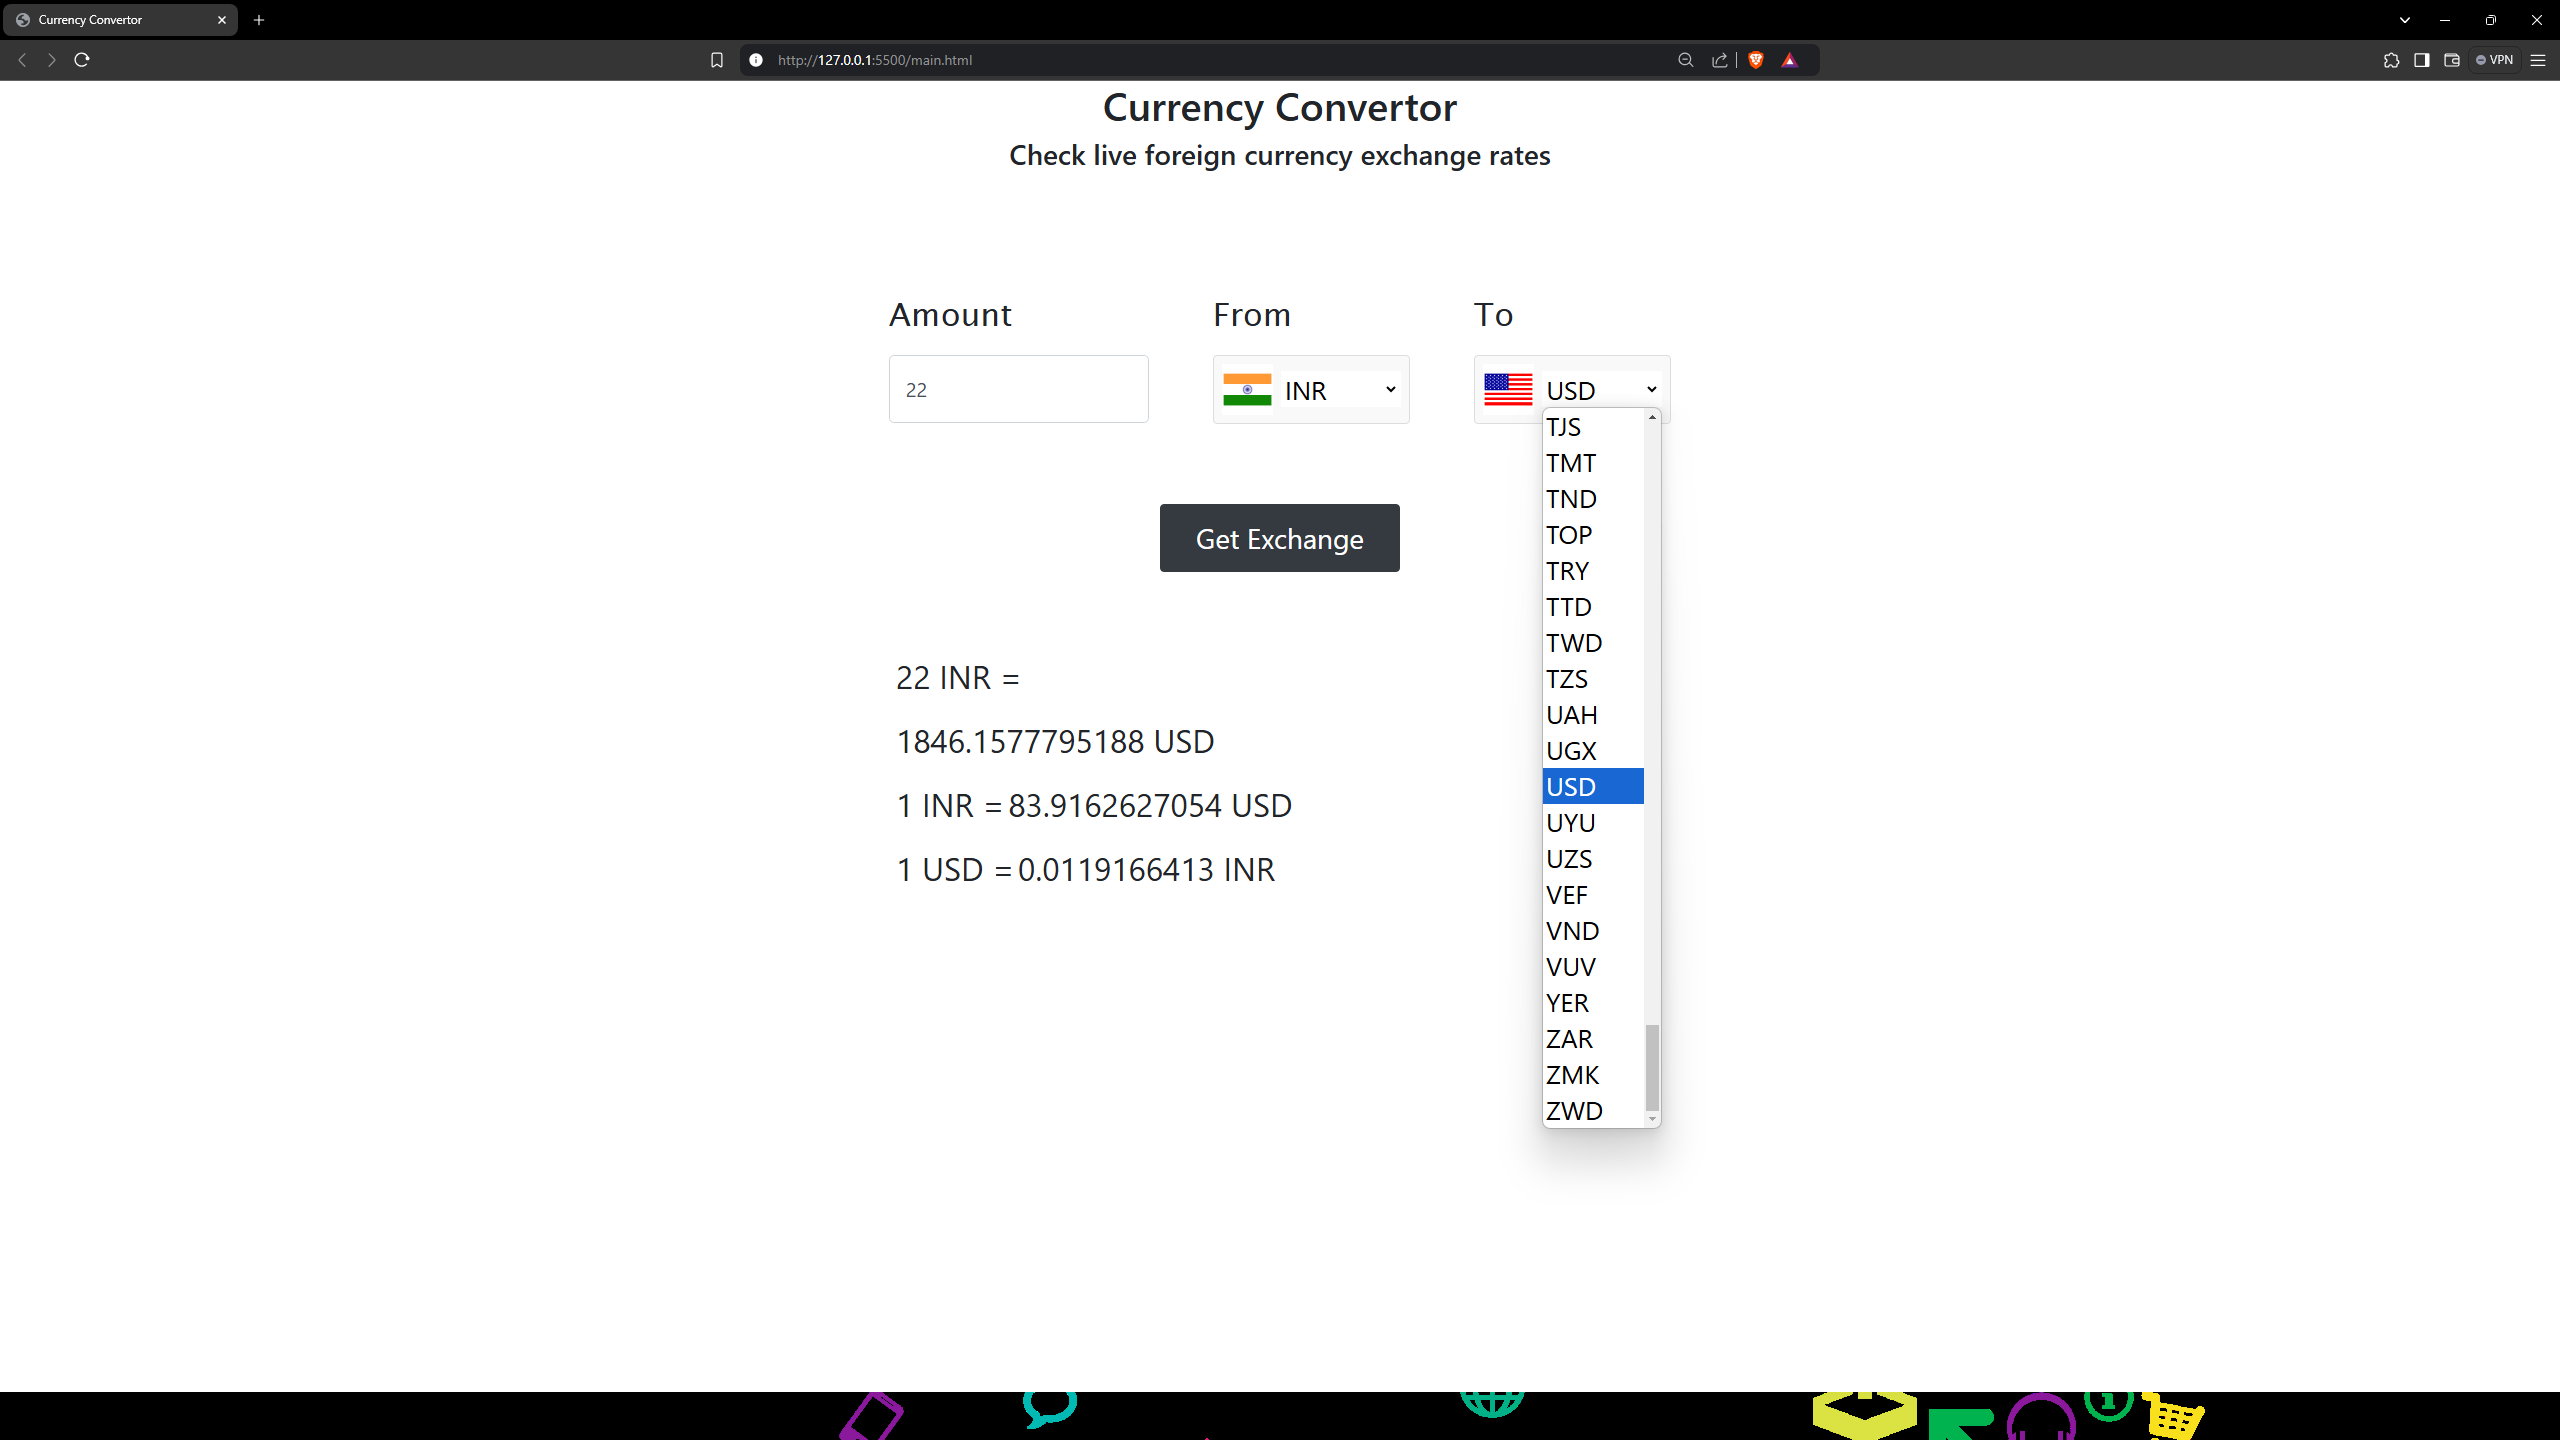
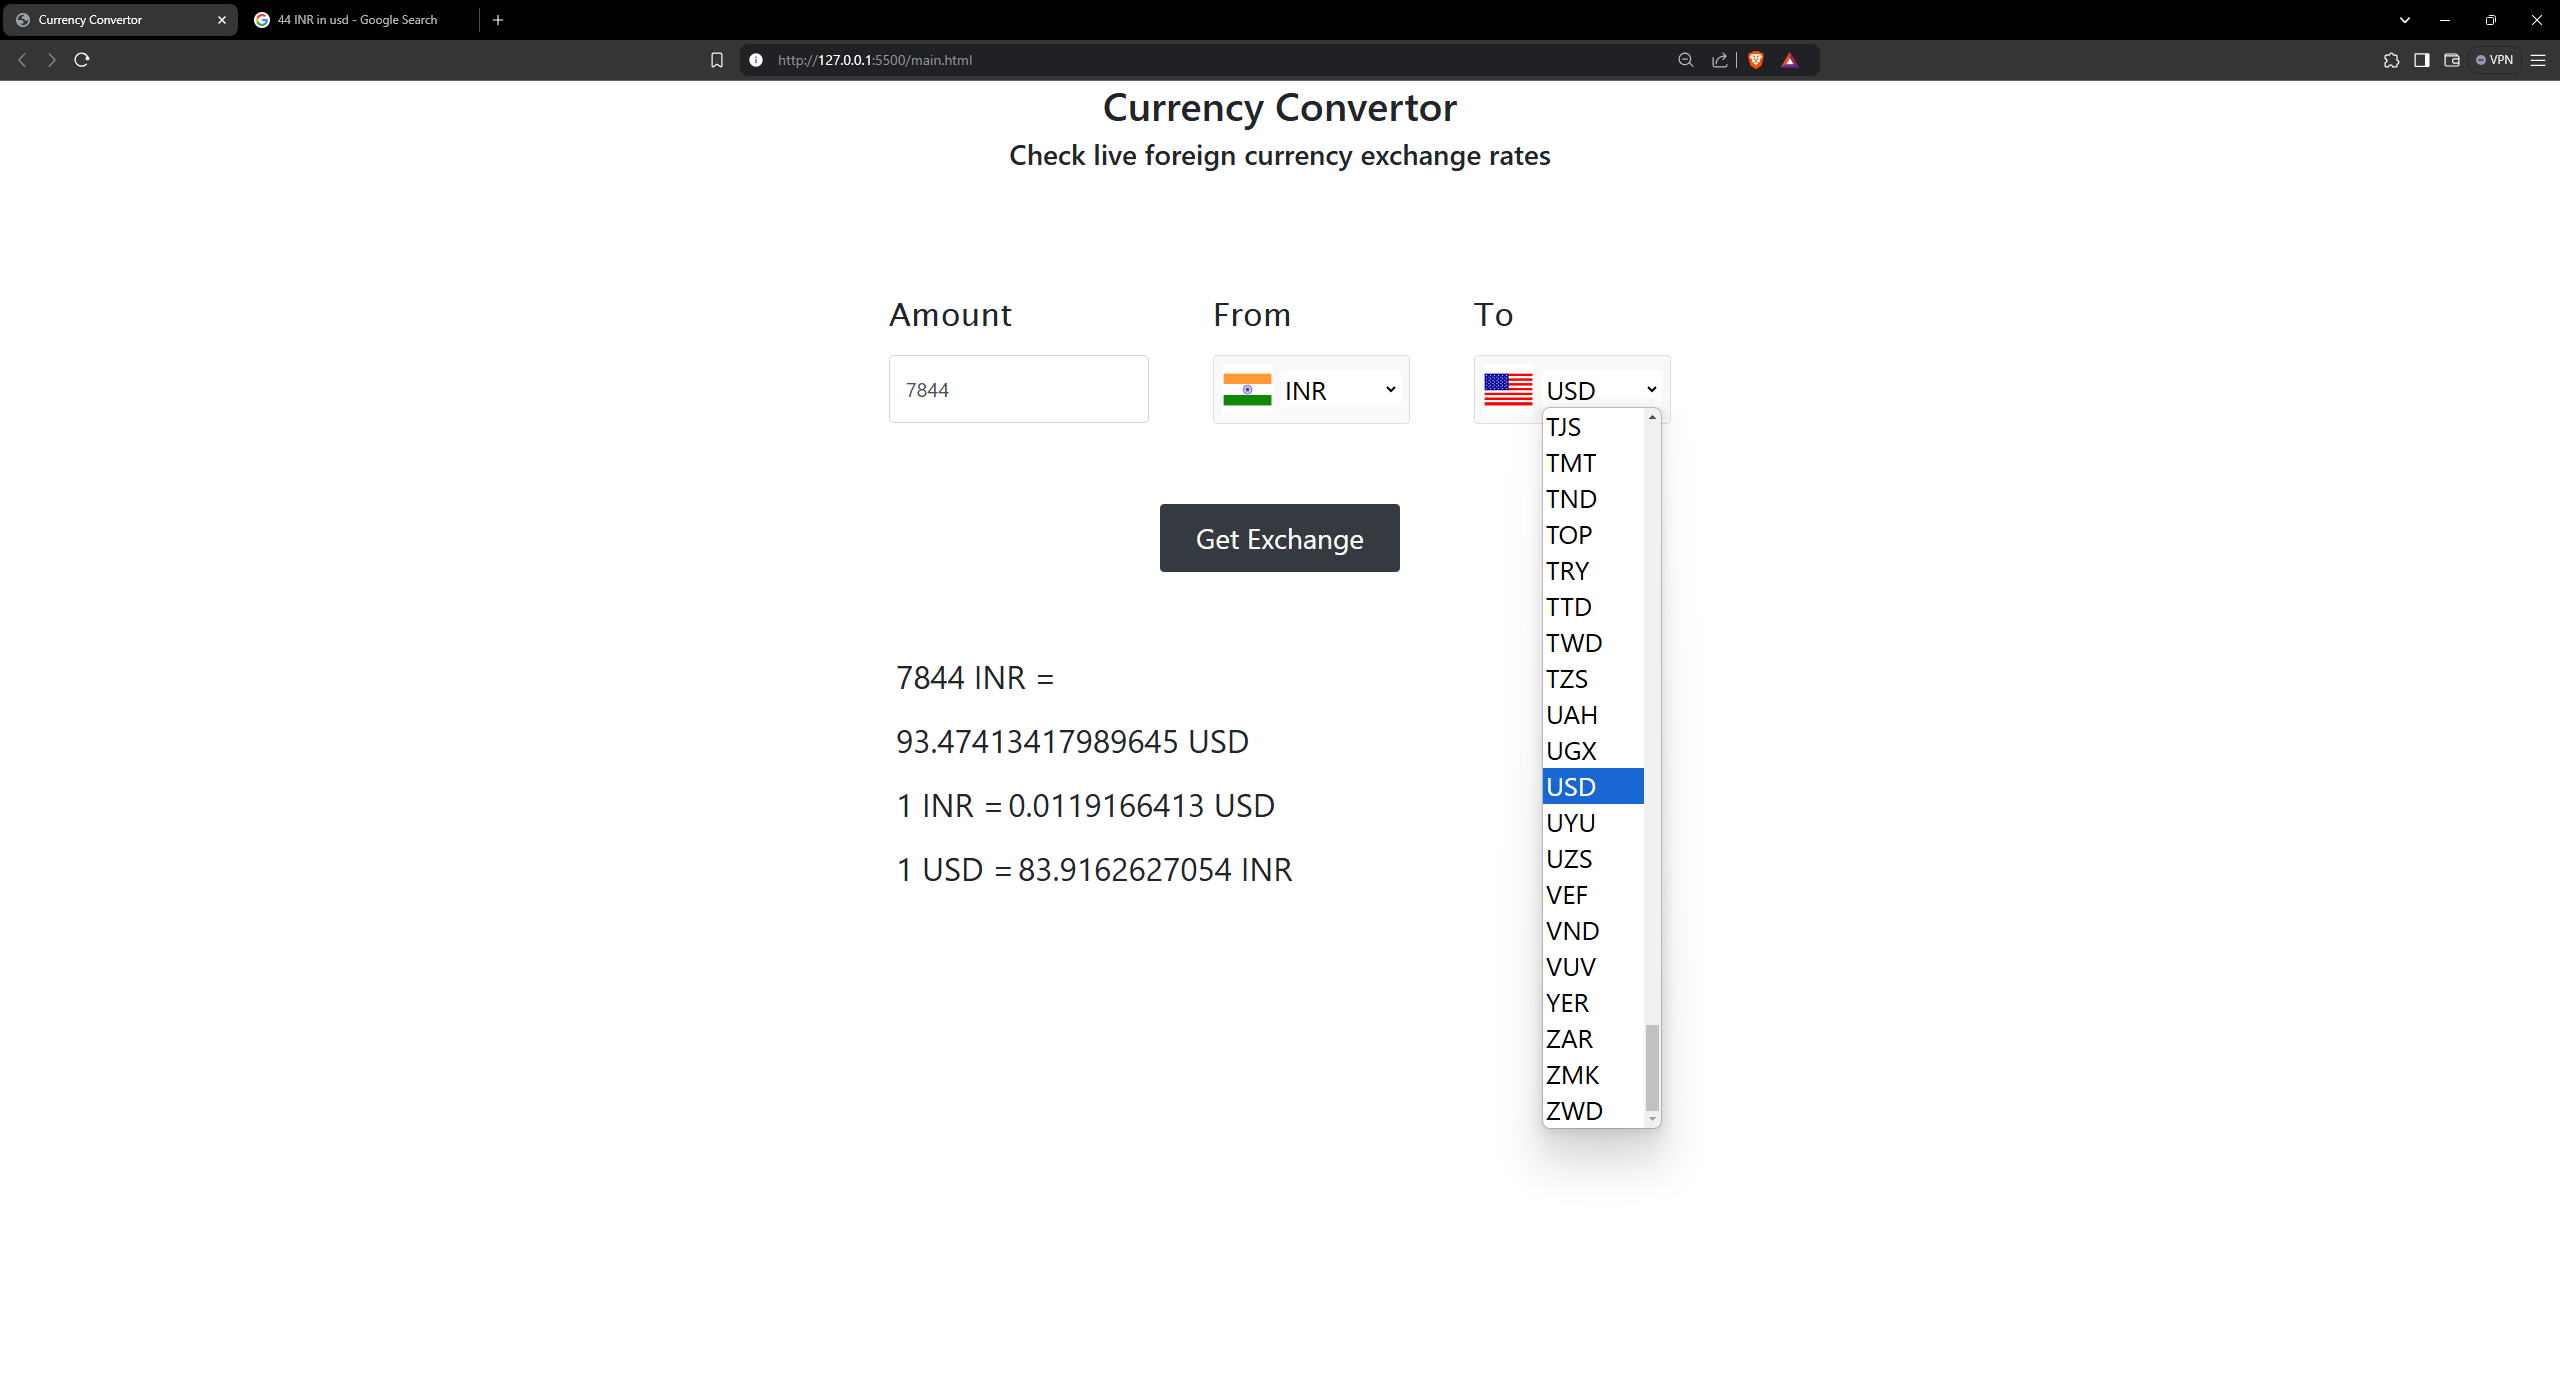
final push

diff --git a/script.js b/script.js
@@ -60,13 +60,13 @@ const fetchData = async (amount) => {
     let data = await response.json();
     let rate = data.data[fromCurr.value];
 
-    let finalAmt = amount * rate;
+    let finalAmt = amount / rate;
 
     // Update UI elements
     amountMsg.innerText = `${amount} ${fromCurr.value} =`;
     finalOpt.innerText = `${finalAmt} ${toCurr.value}`;
-    oneCurr.innerText = `1 ${fromCurr.value} =`;
-    oneCurrValue.innerText = ` ${rate} ${toCurr.value}`;
+    oneCurr.innerText = `1 ${toCurr.value} =`;
+    oneCurrValue.innerText = ` ${rate} ${fromCurr.value}`;
   } catch (error) {
     console.error("Error fetching data:", error);
   }
@@ -80,8 +80,8 @@ const fetchDataReverse = async () => {
     let rate = data.data[toCurr.value];
 
     // Update UI elements
-    oneCurrReverse.innerText = `1 ${toCurr.value} =`;
-    oneCurrValueReverse.innerText = ` ${rate} ${fromCurr.value}`;
+    oneCurrReverse.innerText = `1 ${fromCurr.value} =`;
+    oneCurrValueReverse.innerText = ` ${rate} ${toCurr.value}`;
   } catch (error) {
     console.error("Error fetching data:", error);
   }

diff --git a/main.html b/main.html
@@ -51,12 +51,12 @@
           <p id = "result"></p>
         </div> 
         <div class = "one-currency-price">
-          <p id = "single-currency"></p>
-          <P id = "single-currency-value"></P>
-        </div>
-        <div class = "one-currency-price">
           <p id = "single-currency-reverse"></p>
           <P id = "single-currency-value-reverse"></P>
+        </div>
+        <div class = "one-currency-price">
+          <p id = "single-currency"></p>
+          <P id = "single-currency-value"></P>
         </div>
       </div>
     </form>
